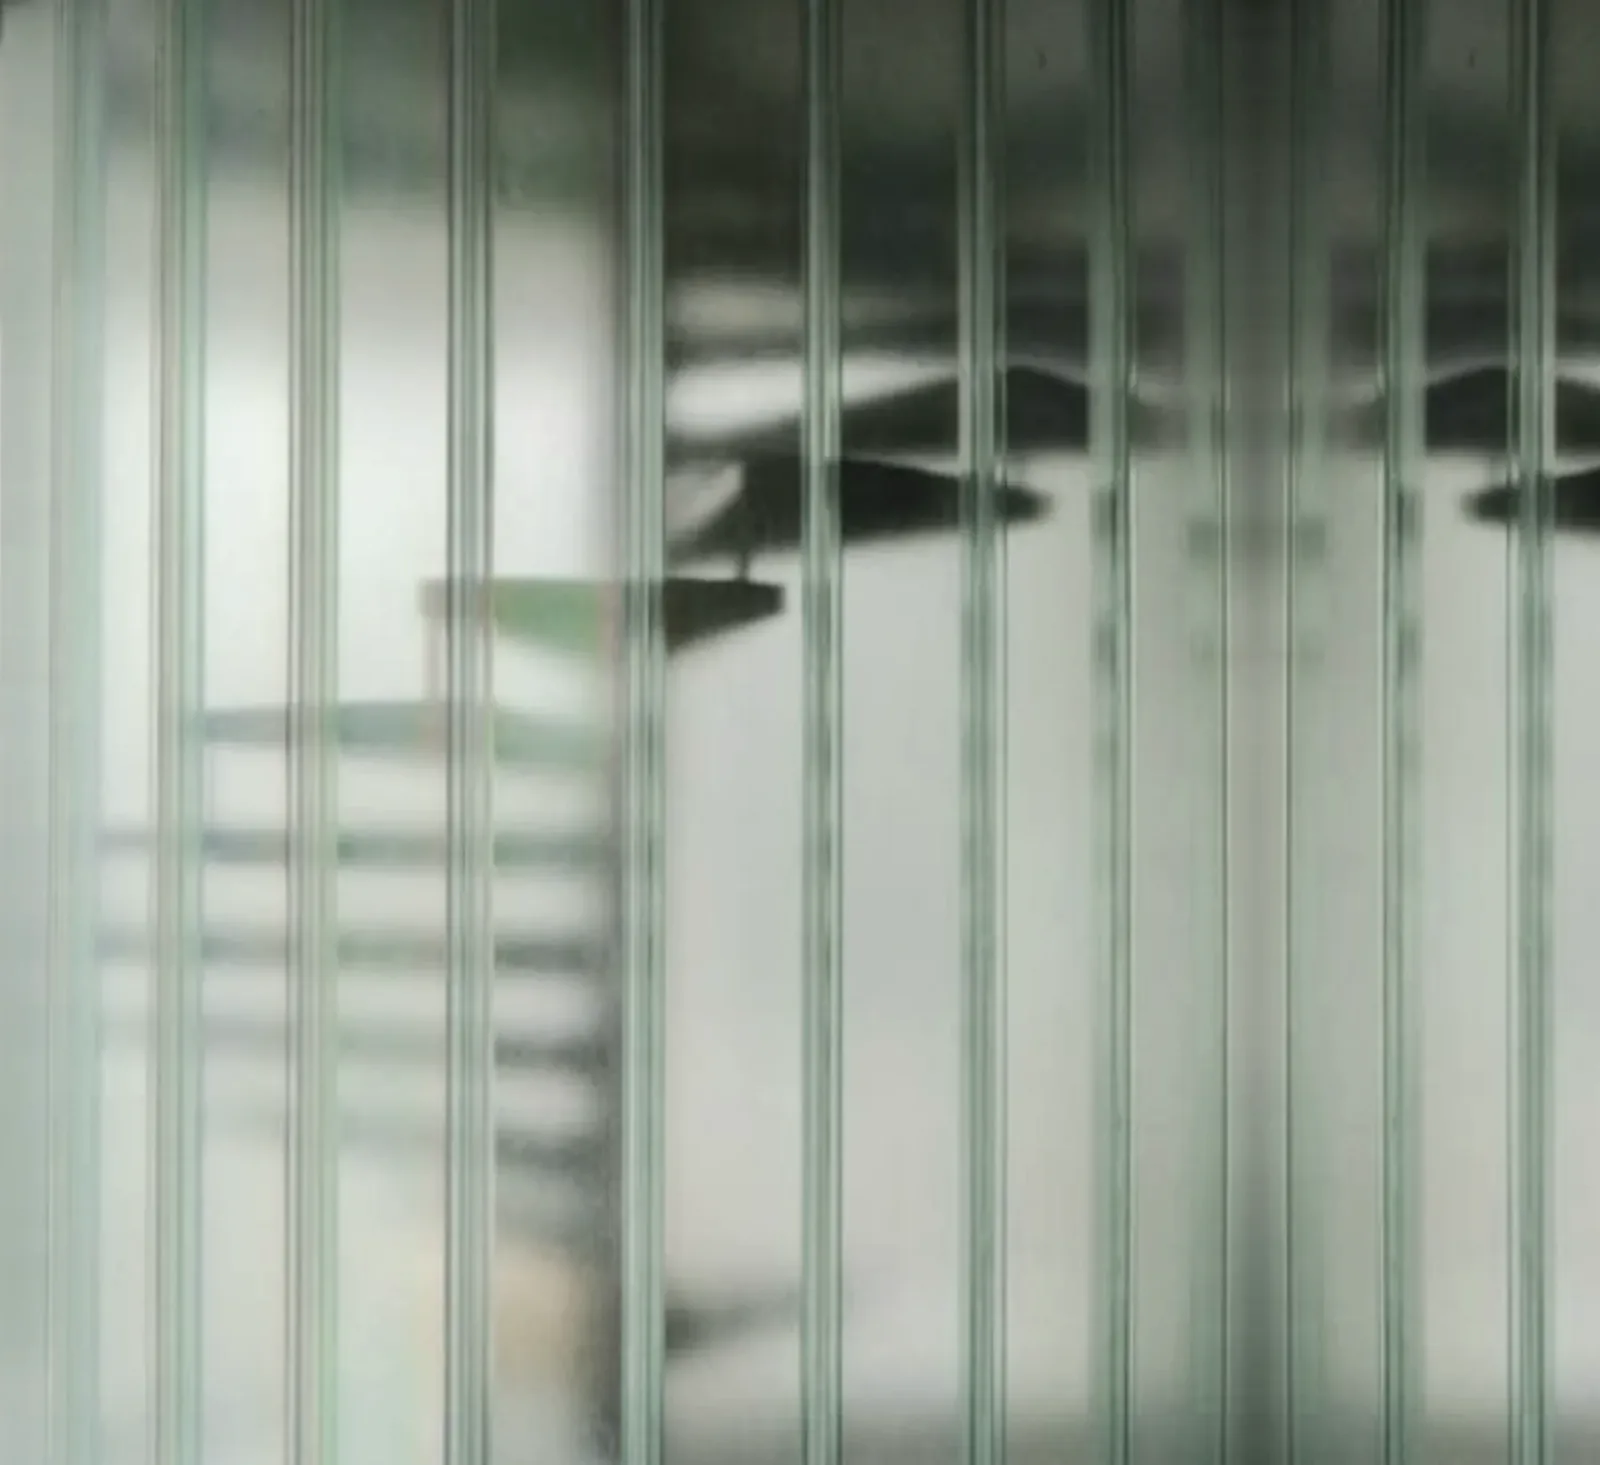
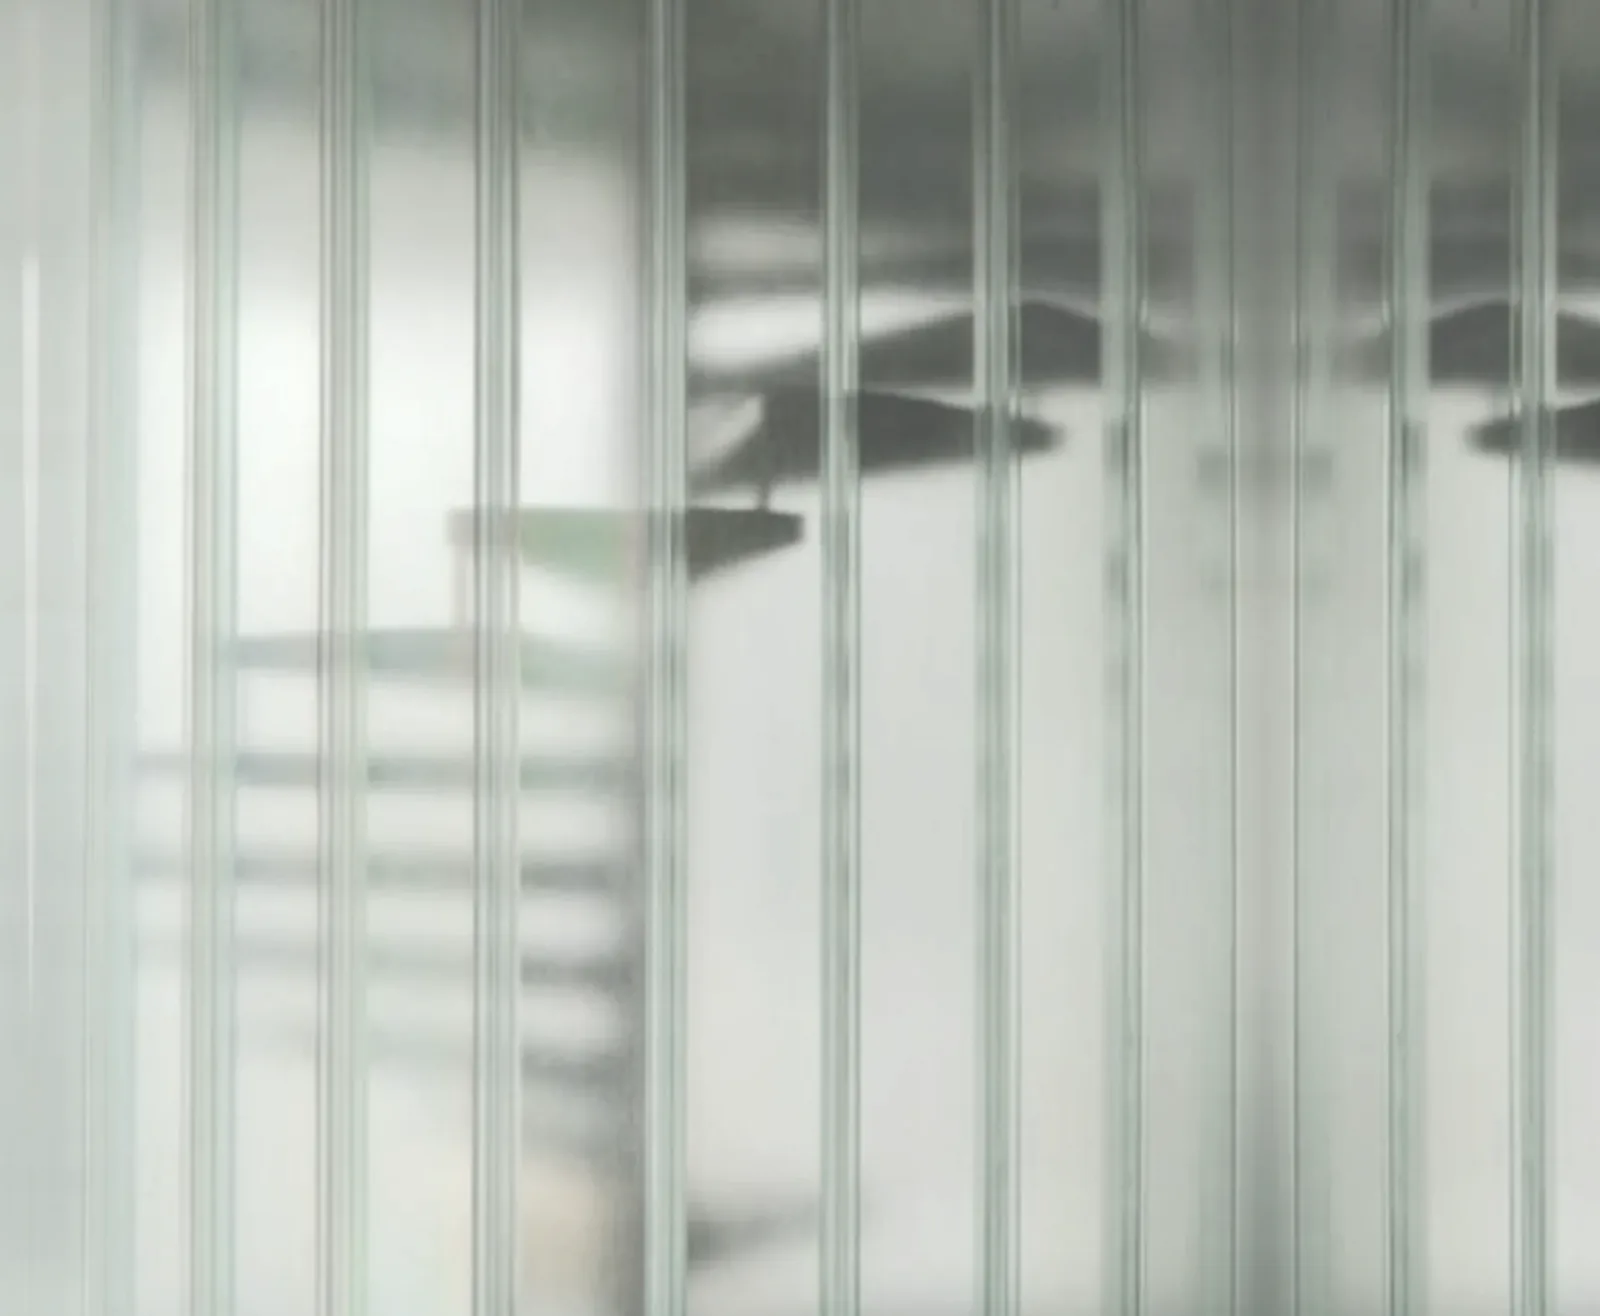
Wash the stair photograph in the asset, not with CSS blur
Blur and overlay were turning the reeded glass into fog. The file is now
a plaster-tinted crop with the flutes still readable; the stylesheet only
fades the left edge into the cement band.

diff --git a/assets/site.css b/assets/site.css
@@ -75,39 +75,39 @@ section { scroll-margin-top: calc(var(--barh) - 20px); }
   position: relative;
   overflow: hidden;
   pointer-events: none;
-  height: 120px;
-  margin-top: 8px;
+  height: 132px;
+  margin-top: 10px;
   background: var(--cement);
 }
 .page-head-stair .page-head-panel img {
   width: 100%;
   height: 100%;
   object-fit: cover;
-  object-position: 60% 38%;
-  /* scale covers the blur halo so the band edge stays clean */
-  filter: blur(3px) saturate(0.7);
-  transform: scale(1.06);
-  opacity: 0.88;
+  object-position: 62% 36%;
 }
 .page-head-stair .page-head-panel::after {
   content: "";
   position: absolute;
   inset: 0;
-  background:
-    linear-gradient(90deg, var(--cement) 0%, rgba(236, 238, 236, 0.55) 28%, rgba(245, 246, 245, 0.28) 100%),
-    linear-gradient(180deg, var(--cement) 0%, transparent 18%, transparent 82%, var(--cement) 100%);
+  /* left fade only: the wash is already in the photograph */
+  background: linear-gradient(90deg, var(--cement) 0%, rgba(236, 238, 236, 0.7) 22%, transparent 58%);
 }
 @media (min-width: 860px) {
-  .page-head-stair .wrap { min-height: 248px; }
+  .page-head-stair .wrap { min-height: 256px; }
   .page-head-stair .page-head-panel {
     position: absolute;
     z-index: 0;
     top: 0;
     right: 0;
     bottom: 0;
-    width: min(38%, 420px);
+    width: min(42%, 460px);
     height: auto;
     margin-top: 0;
+  }
+  .page-head-stair .page-head-panel::after {
+    background:
+      linear-gradient(90deg, var(--cement) 0%, rgba(236, 238, 236, 0.82) 18%, rgba(236, 238, 236, 0.28) 48%, transparent 72%),
+      linear-gradient(180deg, var(--cement) 0%, transparent 16%, transparent 84%, var(--cement) 100%);
   }
 }
 

diff --git a/services.html b/services.html
@@ -44,7 +44,7 @@
         <h1>Four things, in the order they happen.</h1>
         <p>The brand gets made, the site gets built, then kept current, then put in front of more customers. Each one stands on the one before, which is why the work is arranged as steps.</p>
         <div class="page-head-panel" aria-hidden="true">
-          <img src="/assets/services-stair.webp" alt="" width="1600" height="1465">
+          <img src="/assets/services-stair.webp" alt="" width="1600" height="1316">
         </div>
       </div>
     </section>
